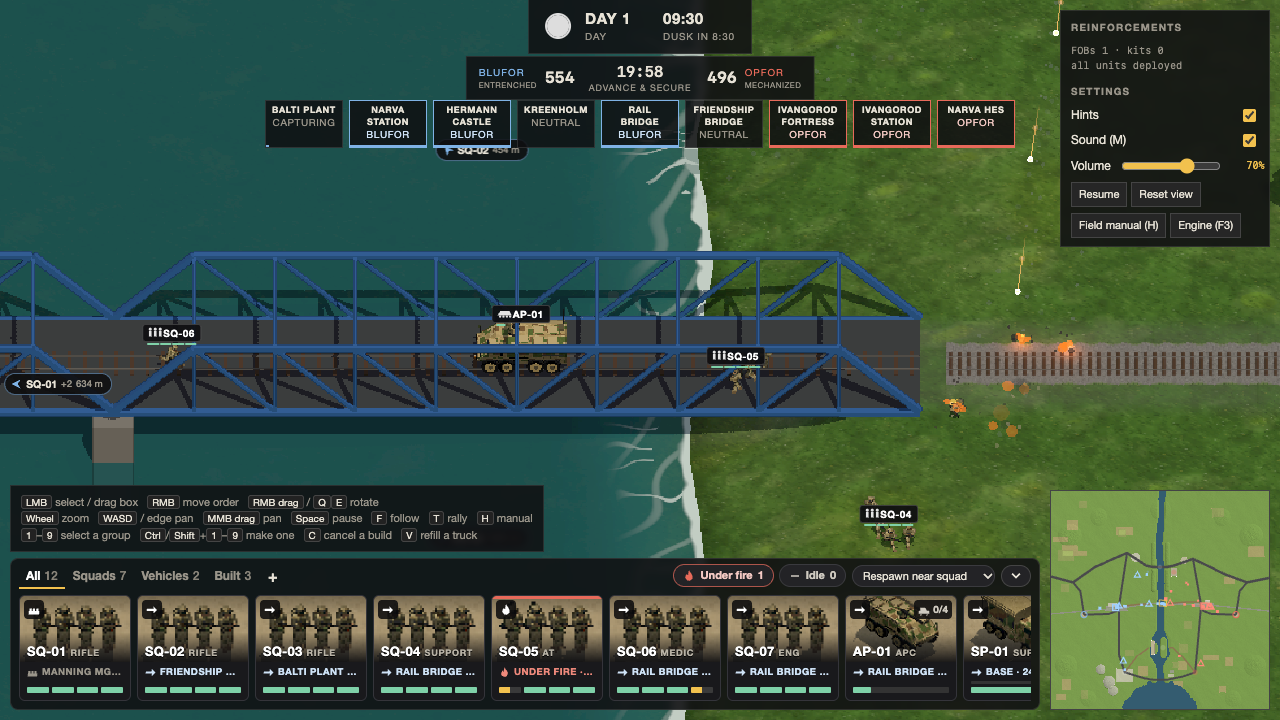
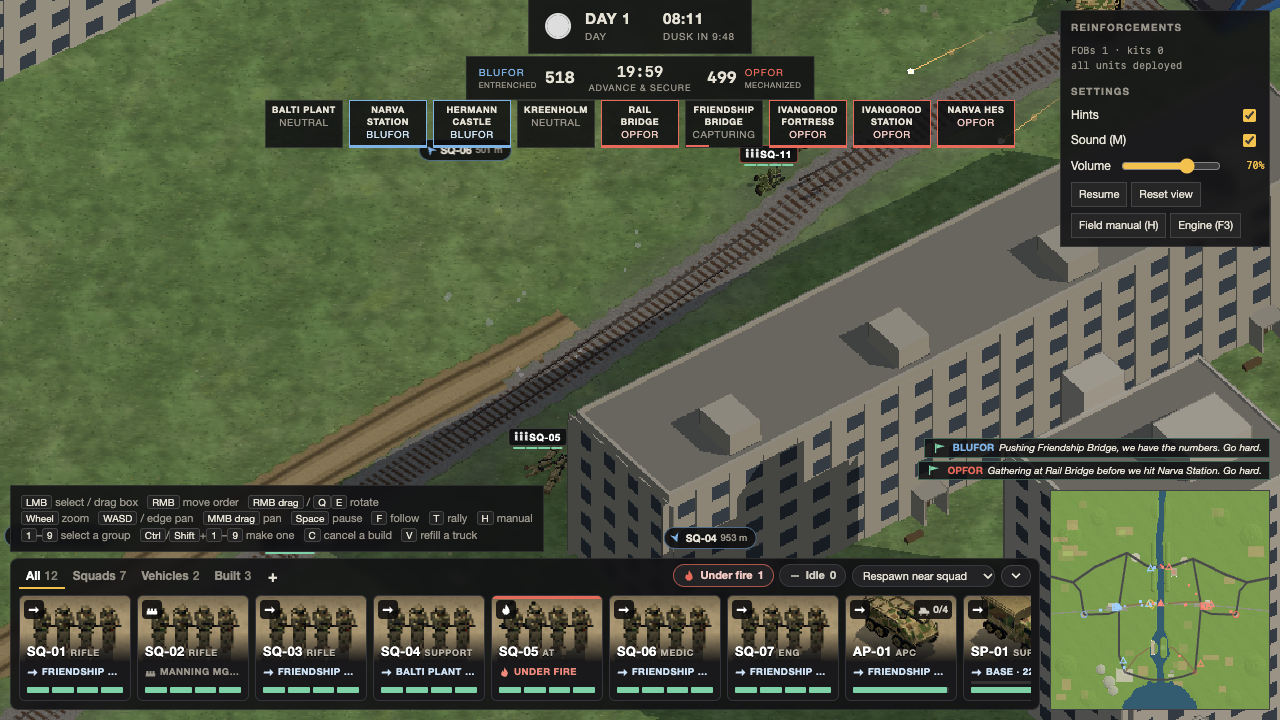
README screenshots retaken on the vox units: nine frames, two of them new
- the seven retaken with the fight-framing tool: the landing at West Beach, the village fight at
  Peninsula (two cottages already rubble), armour through Palm Valley's village (replacing the
  bridge frame), the Friendship Bridge, a column hit on Desert Crossing's road (replacing the
  village frame), a Chinook over the base, the Narva HUD
- new: a cottage brought down by the church, and a landing-craft wave running for the beach on its
  own lines

diff --git a/README.md b/README.md
@@ -14,19 +14,23 @@ pixels chunkier while the camera rotates freely. No build step.
 
 <table>
 <tr>
-<td width="50%"><img src="docs/screenshots/peninsula-landing.webp" alt="Three grey landing craft beached side by side on West Beach in evening light; soldiers come down a ramp while an APC and a supply truck drive up the sand"><br><sub><b>Peninsula.</b> The first wave beaches at West Beach at dusk; the APC and supply truck are already heading up the sand.</sub></td>
-<td width="50%"><img src="docs/screenshots/peninsula-fight.webp" alt="Squads trading fire in dusky fields beside a road and a cottage, rocket trails, tracers and a burst between them"><br><sub><b>Peninsula.</b> Squads clash in the fields behind the village at dusk.</sub></td>
+<td width="50%"><img src="docs/screenshots/peninsula-landing.webp" alt="Two landing craft at West Beach at dusk, one beached and one coming in on its wake, soldiers on the sand and an APC heading up the beach"><br><sub><b>Peninsula.</b> The first wave at West Beach at dusk: one craft beached, the next coming in, the APC already up the sand.</sub></td>
+<td width="50%"><img src="docs/screenshots/peninsula-fight.webp" alt="A firefight beside a stone cottage at dusk: tracers crossing, a burst by the house, the rubble of two cottages brought down earlier, an APC on the road behind"><br><sub><b>Peninsula.</b> The fight for the village at dusk, two cottages already down to rubble.</sub></td>
 </tr>
 <tr>
-<td><img src="docs/screenshots/palm-valley-bridge.webp" alt="A desert road crossing a river bridge, a row of tank traps across it and squads fighting on either side, an explosion near a container"><br><sub><b>Palm Valley.</b> The fight for the Bridge, behind a row of tank traps.</sub></td>
-<td><img src="docs/screenshots/narva-friendship-bridge.webp" alt="A firefight where a road bridge meets the river bank in green meadow, a fire burning beside the road"><br><sub><b>Narva.</b> A fight for the end of the Friendship Bridge.</sub></td>
+<td><img src="docs/screenshots/palm-valley-armour.webp" alt="Tanks and an APC fighting through a desert village of flat-roofed houses beside a road, a burst by one of the houses"><br><sub><b>Palm Valley.</b> Armour fights through the village.</sub></td>
+<td><img src="docs/screenshots/narva-friendship-bridge.webp" alt="A burning wreck and vehicles on the Friendship Bridge over the river, a burst on the deck, foam along the banks"><br><sub><b>Narva.</b> A fight on the Friendship Bridge.</sub></td>
 </tr>
 <tr>
-<td><img src="docs/screenshots/desert-village.webp" alt="Two APC wrecks burning and smoking on a road through a desert village of flat-roofed houses, squads fighting between the houses"><br><sub><b>Desert Crossing.</b> APC wrecks burn on the road through the village.</sub></td>
-<td><img src="docs/screenshots/air-assault.webp" alt="Two tandem-rotor transport helicopters lifting off inside a sandbagged main base with containers, floodlights and a watchtower"><br><sub><b>Air Assault.</b> Chinooks lift off from the main base.</sub></td>
+<td><img src="docs/screenshots/desert-crossing-road.webp" alt="A road through desert scrub and palms, a truck hit and burning on it, an APC and another truck on the road"><br><sub><b>Desert Crossing.</b> A column on the road takes a hit.</sub></td>
+<td><img src="docs/screenshots/air-assault.webp" alt="A tandem-rotor transport helicopter over a sandbagged main base with containers, floodlights and a watchtower, its shadow on the road"><br><sub><b>Air Assault.</b> A Chinook lifts off from the main base.</sub></td>
 </tr>
 <tr>
-<td colspan="2"><img src="docs/screenshots/hud.webp" alt="The match screen on Narva: an APC and squads on the blue truss railway bridge, the places bar and tickets along the top, reinforcements at the right, the unit strip and the minimap along the bottom"><br><sub><b>The match HUD</b> (Narva's railway bridge, fog of war on): the places and tickets along the top, reinforcements at the right, the unit strip and the minimap below.</sub></td>
+<td><img src="docs/screenshots/peninsula-rubble.webp" alt="A cottage by the church reduced to a heap of rubble in a grassy village at dusk, tracers crossing, a squad firing beside it"><br><sub><b>Peninsula.</b> Stray fire has brought two cottages down by the church.</sub></td>
+<td><img src="docs/screenshots/peninsula-wave.webp" alt="Two landing craft under way at dusk, each trailing a line of foam, the stern of the assault ship behind them"><br><sub><b>Peninsula.</b> A wave runs for the beach, each craft on its own line.</sub></td>
+</tr>
+<tr>
+<td colspan="2"><img src="docs/screenshots/hud.webp" alt="The match screen on Narva: squads by a block of flats beside the railway, the places bar and tickets along the top, reinforcements and settings at the right, the unit strip and the minimap along the bottom"><br><sub><b>The match HUD</b> (Narva, fog of war on): the places and tickets along the top, reinforcements at the right, the unit strip and the minimap below.</sub></td>
 </tr>
 </table>
 
